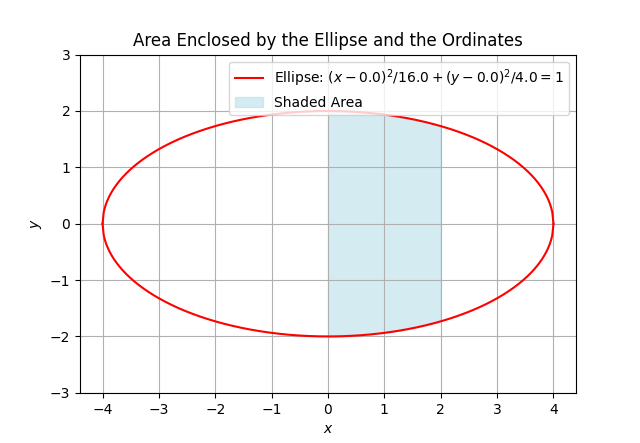
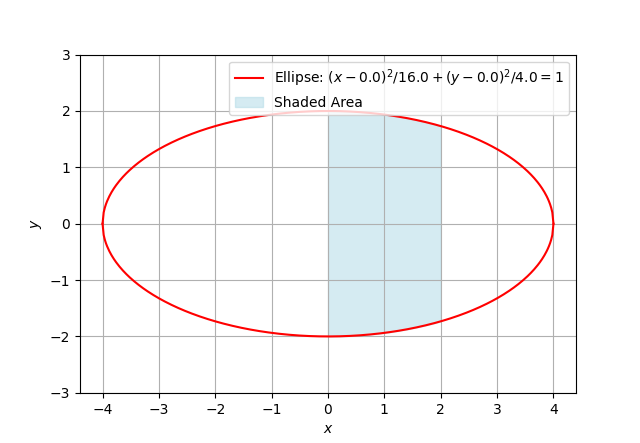
Hello

Changed region(s): [[0.2188, 0.0587, 0.8125, 0.1174]]

diff --git a/matgeo11/main.tex b/matgeo11/main.tex
@@ -44,7 +44,7 @@
 \renewcommand{\thetable}{\theenumi}
 \begin{document}
 \bibliographystyle{IEEEtran}
-\title{4-4.2-6}
+\title{9-9.3-13}
 \author{EE24BTECH11030 - J.KEDARANANDA}
 % \maketitle
 % \newpage
@@ -58,12 +58,15 @@ Find the area bounded by the ellipse $x^2 + 4y^2 = 16$ and the ordinates x = 0 a
   \centering
   \input{tables/table1.tex}
   \caption{}
-\end{table}\\
+  \label{tab1-9.3-13}
+\end{table}
 \begin{table}[h!]    
   \centering
   \input{tables/table2.tex}
   \caption{}
-\end{table}\\
+  \label{tab2-9.3-13} 
+\end{table}
+
 \begin{align}
 \vec{V}&=\myvec{\frac{1}{16} & 0\\0 & \frac{1}{4}}\\
 \vec{u}&=\myvec{0\\0}\\
@@ -74,6 +77,7 @@ For the given line $x=2$, The values of $\vec{h}$, $\vec{m}$ are
 \vec{h}&=\myvec{0\\0}\\
 \vec{m}&=\myvec{1\\0}
 \end{align}
+\ref{tab2-9.3-13}
 The intersection points are
 \begin{align}
 \vec{x_1} &= \myvec{2\\\sqrt{3}}\\
@@ -86,12 +90,9 @@ y &= \pm \sqrt{4 - \frac{1}{4}x^2}
 \end{align}
 The area A  between the curves from \( x = 0 \) to \( x = 2 \) is given by:
 \begin{align}
-A= 2 \int_0^2 \sqrt{4 - \frac{1}{4}x^2} \, dx
-\end{align}
-\begin{align}
 A = 4 \int_0^2 \sqrt{1 - \frac{x^2}{16}} \, dx
 \end{align}
-So by simplyfing the area becomes:
+So by simplyfing :
 \begin{align}
 A = 2\sqrt{3} + \frac{4\pi}{3}
 \end{align}

diff --git a/matgeo11/codes/p.py b/matgeo11/codes/p.py
@@ -65,7 +65,6 @@ plt.fill_between(np.linspace(x_min, x_max, 100), y_fill_upper, y_fill_lower, col
 # Labels and plot settings
 plt.xlabel('$x$')
 plt.ylabel('$y$')
-plt.title('Area Enclosed by the Ellipse and the Ordinates')
 plt.grid(True)
 plt.legend(loc='upper right')
 
